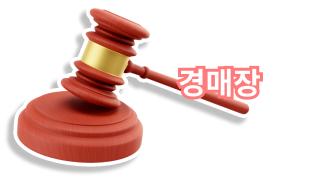
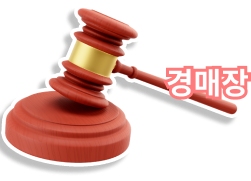
Design: 수정 main

Changed region(s): [[0.1673, 0.0276, 1.0, 0.9669], [0.0, 0.5249, 0.1394, 0.9116], [0.2231, 0.663, 0.2789, 0.7182]]

diff --git a/front-server/src/Components/Main/Main.tsx b/front-server/src/Components/Main/Main.tsx
@@ -90,9 +90,88 @@ function Main(): JSX.Element {
       </div>*/}
 
       <div className="items-center justify-between hidden w-full h-full max-w-screen-xl lg:flex">
-        <div className="w-[28%] h-full">1</div>
-        <div className="flex items-center justify-center h-full w-[44%] max-h-[49rem]">
-          <div className="flex justify-center items-center w-full border-4 h-[60%] mt-10 relative min-w-[14.3rem] min-h-[29.4rem]">
+        {/* 1번 구역 */}
+        <div className="flex justify-center items-end w-[28%] h-full">
+          <div className="flex justify-between h-[87%] w-full">
+            <div className="flex flex-col justify-end items-start w-[40%] h-full border-black">
+              <div className="w-full h-4/5"></div>
+              <div className="h-auto">
+                <img
+                  aria-label="가이드"
+                  className="z-10"
+                  src="/images/toys/guide.png"
+                  alt=""
+                />
+              </div>
+              <div className="h-[3%]"></div>
+            </div>
+            <div className="flex flex-col items-center justify-start w-[45%] h-full ">
+              {/* 빈칸 */}
+              <div className="h-[5%]"></div>
+              {/* 방문하기 */}
+              <div className="relative flex justify-end h-[30%]">
+                <img
+                  aria-label="방문하기"
+                  className="z-10 h-full"
+                  src="/images/toys/visit.png"
+                  alt=""
+                />
+              </div>
+              {/* 빈칸 */}
+              <div className="h-[3%]"></div>
+              {/* 경매장 */}
+              <div className="relative w-full h-[23%]">
+                <img
+                  aria-label="경매장"
+                  className="z-10 h-full "
+                  src="/images/toys/auction.png"
+                  alt=""
+                />
+              </div>
+              {/* 빈칸 */}
+              <div className="h-[7%]"></div>
+              <div className="relative w-full h-[18%] flex justify-end">
+                <img
+                  aria-label="게임기"
+                  className="z-10 h-full"
+                  src="/images/toys/nintendoBorder.png"
+                  alt=""
+                />
+              </div>
+              {/* 빈칸 */}
+              <div className="h-auto"></div>
+            </div>
+          </div>
+        </div>
+        {/* 2번 구역 */}
+        <div className="flex items-center justify-center h-full w-[44%] max-h-[49rem] relative">
+          <div className="absolute z-10 flex items-end justify-between w-full h-full ">
+            <div className="flex flex-col items-end justify-start w-1/2 h-[92%]">
+              <div className="flex justify-center h-[22%] w-full">
+                <img
+                  aria-label="가이드"
+                  className="z-10 h-full"
+                  src="/images/toys/bank.png"
+                  alt=""
+                />
+              </div>
+              <div className="h-[52%]"></div>
+              <div className="flex justify-start h-[18%] w-[82%]">
+                <img
+                  aria-label="가이드"
+                  className="z-10 h-full"
+                  src="/images/toys/gatcha.png"
+                  alt=""
+                />
+              </div>
+              <div className="w-full h-[6%]"></div>
+            </div>
+            <div className="flex flex-col items-center justify-start w-1/2 h-full">
+              <div></div>
+              <div></div>
+            </div>
+          </div>
+          <div className="flex justify-center items-center w-full h-[60%] relative min-w-[14.3rem] min-h-[29.4rem]">
             <img
               aria-label="마카롱"
               className={`absolute object-contain scale-110 w-full`}
@@ -118,7 +197,38 @@ function Main(): JSX.Element {
             </Canvas>
           </div>
         </div>
-        <div className="w-[28%] h-full">3</div>
+        {/* 3번 구역 */}
+        <div className="flex justify-start items-center w-[28%] h-full">
+          <div className="w-[60%] h-[80%]">
+            <div className="h-[15%]"></div>
+            <div className="flex justify-center h-[17%] w-full">
+              <img
+                aria-label="가이드"
+                className="z-10 h-full"
+                src="/images/toys/info.png"
+                alt=""
+              />
+            </div>
+            <div className="h-[6%]"></div>
+            <div className="flex justify-center h-[23%] w-full">
+              <img
+                aria-label="가이드"
+                className="z-10 h-full"
+                src="/images/toys/rank.png"
+                alt=""
+              />
+            </div>
+            <div className="h-[10%]"></div>
+            <div className="flex justify-center h-[30%] w-full">
+              <img
+                aria-label="가이드"
+                className="z-10 h-full"
+                src="/images/toys/chart.png"
+                alt=""
+              />
+            </div>
+          </div>
+        </div>
       </div>
     </>
   );

diff --git a/front-server/src/Layout.tsx b/front-server/src/Layout.tsx
@@ -10,7 +10,7 @@ function Layout(): JSX.Element {
   });
   return (
     <>
-      <div className="bg-[#FEF9F9] w-screen relative flex">
+      <div className="bg-[#FDE2E2]/40 w-screen relative flex">
         <div className="container relative flex w-full h-screen mx-auto lg:max-w-screen-xl">
           <Outlet />
         </div>
@@ -27,8 +27,8 @@ function Layout(): JSX.Element {
                 delay: 0,
                 ease: 'easeInOut'
               }}>
-                <Login />
-              </motion.div>
+              <Login />
+            </motion.div>
           )}
         </AnimatePresence>
       </div>
